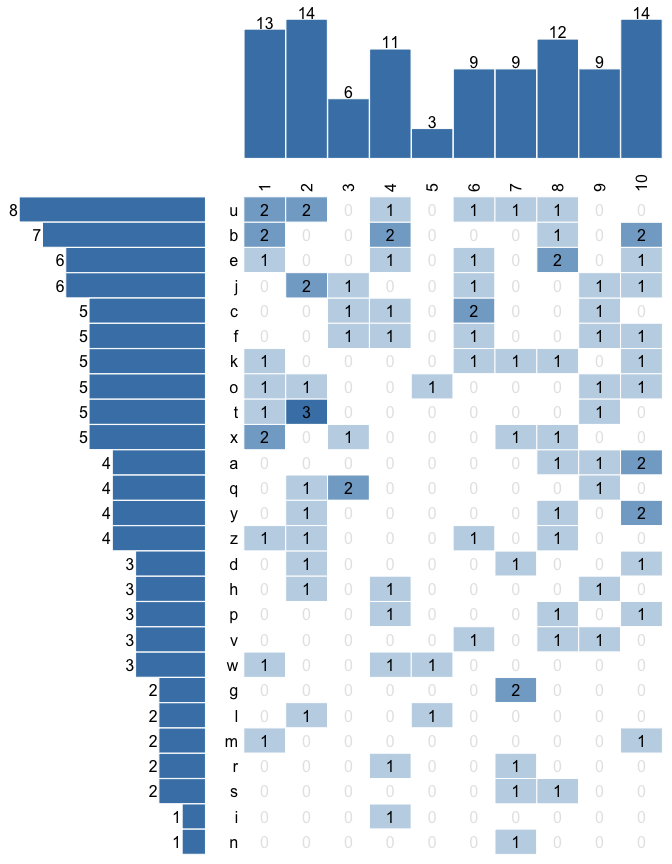
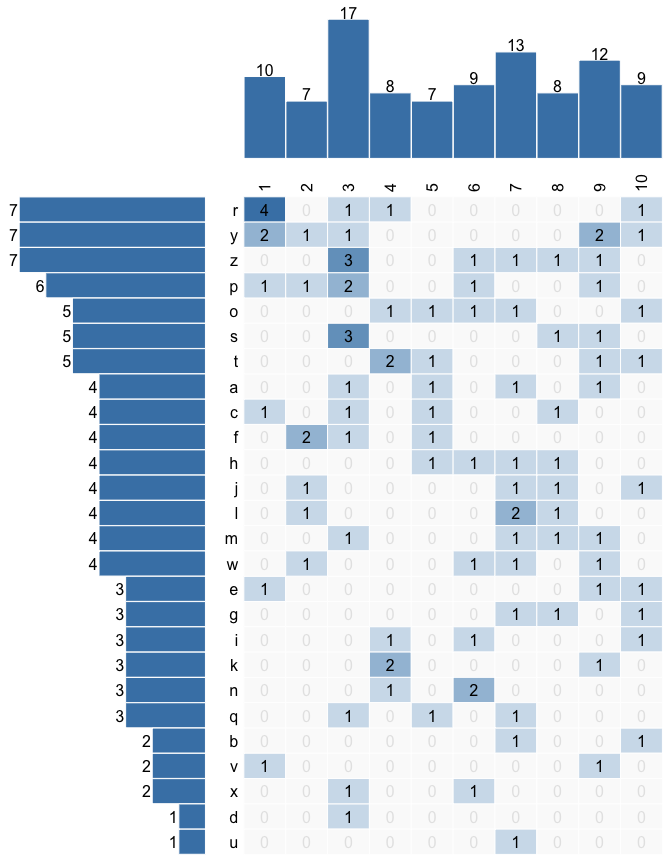
allow adjust zero color and fill

diff --git a/README.md b/README.md
@@ -29,7 +29,9 @@ popViewport()
 # Evid map 1
 pushViewport(viewport(layout.pos.row = 2, layout.pos.col = 2))
 spec_levels <- plot_evid_map(var_row = dat$a, var_col = dat$b, 
-                             margins = marg_evid_map)
+                             margins = marg_evid_map, 
+                             # Can adjust color and fill for 0 cells:
+                             color_zero = "grey90", fill_zero = "grey98")
 popViewport()
 
 popViewport()
